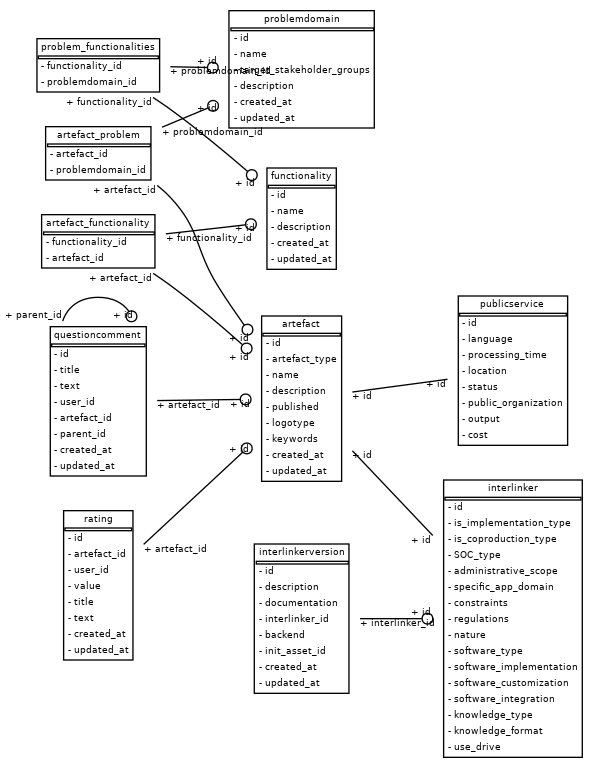
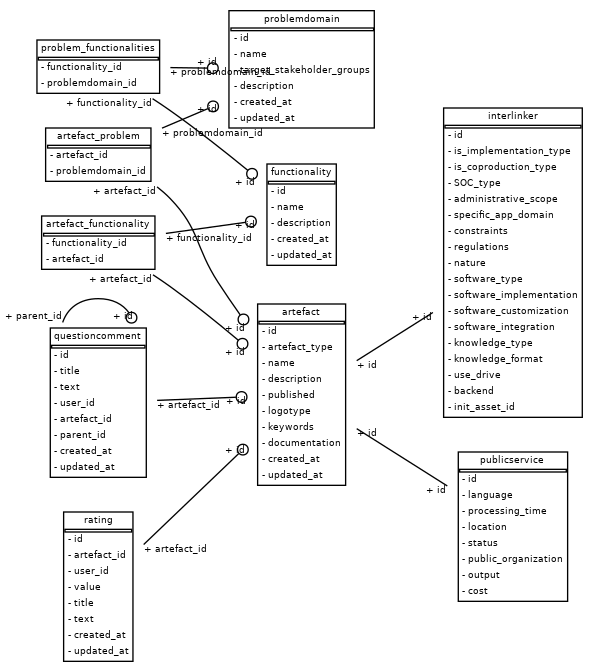
Model simplified

diff --git a/catalogue/app/interlinkers/crud.py b/catalogue/app/interlinkers/crud.py
@@ -1,18 +1,16 @@
-import uuid
-from typing import Any, Dict, Optional, Union
+from typing import Optional
 
 from sqlalchemy.orm import Session
 
-from app.models import Interlinker, InterlinkerVersion
-from app.schemas import InterlinkerCreate, InterlinkerPatch, InterlinkerVersionCreate
+from app.models import Interlinker
+from app.schemas import InterlinkerCreate, InterlinkerPatch
 from app.general.utils.CRUDBase import CRUDBase
-from app import crud
 
 class CRUDInterlinker(CRUDBase[Interlinker, InterlinkerCreate, InterlinkerPatch]):
     def get_by_name(self, db: Session, name: str) -> Optional[Interlinker]:
         return db.query(Interlinker).filter(Interlinker.name == name).first()
 
-    def create(self, db: Session, *, interlinker: InterlinkerCreate, interlinkerversion: InterlinkerVersionCreate) -> Interlinker:
+    def create(self, db: Session, *, interlinker: InterlinkerCreate) -> Interlinker:
         db_obj = Interlinker(
             # Artefact
             name=interlinker.name,
@@ -20,6 +18,7 @@ class CRUDInterlinker(CRUDBase[Interlinker, InterlinkerCreate, InterlinkerPatch]
             logotype=interlinker.logotype,
             published=interlinker.published,
             keywords=interlinker.keywords,
+            documentation=interlinker.documentation,
             # Interlinker specific
             SOC_type=interlinker.SOC_type,
             nature=interlinker.nature,
@@ -33,12 +32,11 @@ class CRUDInterlinker(CRUDBase[Interlinker, InterlinkerCreate, InterlinkerPatch]
             software_integration=interlinker.software_integration,
             knowledge_type=interlinker.knowledge_type,
             knowledge_format=interlinker.knowledge_format,
+            # Version
+            backend=interlinker.backend,
+            init_asset_id=interlinker.init_asset_id,
         )
         db.add(db_obj)
-        db.commit()
-
-        db_vers = crud.interlinkerversion.create(db=db, interlinkerversion=interlinkerversion, interlinker_id=db_obj.id)
-        db.add(db_vers)
         db.commit()
         db.refresh(db_obj)
         return db_obj

diff --git a/catalogue/app/initial_data.py b/catalogue/app/initial_data.py
@@ -17,7 +17,7 @@ def main() -> None:
         for interlinker in interlinkers_data:
             name = interlinker["name"]
             backend = interlinker["backend"]
-
+            init_asset_id = None
             if interlinker["type"] == "KN":
                 path = interlinker["path"]
 
@@ -29,20 +29,8 @@ def main() -> None:
                 print(f"RESPUESTA PARA {backend}")
                 files_data = response.json()
                 print(files_data)
-                interlinkerversiondata = schemas.InterlinkerVersionCreate(**{
-                    "init_asset_id": files_data["_id"],
-                    "backend": backend,
-                    "description": "First version",
-                    "documentation": "<>string</>",
-                }
-                ),
-            else:
-                interlinkerversiondata = schemas.InterlinkerVersionCreate(**{
-                    "backend": backend,
-                    "description": "First version",
-                    "documentation": "<>string</>",
-                }
-                )
+                init_asset_id = files_data["_id"]
+            
             # I don´t know why sometimes a tuple that contains InterlinkerVersionCreate instance is created
             crud.interlinker.create(
                 db=db,
@@ -52,11 +40,14 @@ def main() -> None:
                     "logotype": "string",
                     "published": True,
                     "keywords": [],
+                    "documentation": "<>string</>",
                     "SOC_type": "A11",
                     "nature": "SW" if interlinker["type"] == "SW" else "KN",
-                    "problemdomains": []}
+                    "problemdomains": [],
+                    "backend": backend,
+                    "init_asset_id": init_asset_id
+                    }
                 ),
-                interlinkerversion=interlinkerversiondata[0] if isinstance(interlinkerversiondata, tuple) else interlinkerversiondata
             )
     
     db.close()

diff --git a/catalogue/app/status.py b/catalogue/app/status.py
@@ -1,0 +1,37 @@
+
+from app.general.db.session import SessionLocal
+from app import crud
+import requests
+
+status_dict = {}
+
+def set_interlinkers_status() -> None:
+    with SessionLocal() as db:
+        for interlinker in crud.interlinker.get_multi(db=db):
+            done = []
+            try:
+                id = interlinker.backend
+                if id not in done:
+                    last_status = status_dict[id] if id in status_dict else None
+                    
+                    current_status = "off"
+                    try:
+                        data = requests.get(f"http://{interlinker.backend}/healthcheck/").json()
+                        current_status = "on" if data else "off"
+                    except Exception as e:
+                        print(str(e))
+                        pass
+                    print(f"{interlinker.name} - {current_status}")
+                    if (last_status == "off" and current_status == "on") or (last_status == "on" and current_status == "off"):
+                        current_status = "dangling"
+                    
+                    status_dict[id] = {
+                        "name": interlinker.name,
+                        "status": current_status
+                    }
+                    done.append(id)
+            except Exception as e:
+                print(str(e))
+
+def get_interlinker_status(interlinker_id):
+    return status_dict[interlinker_id]

diff --git a/catalogue/app/main.py b/catalogue/app/main.py
@@ -42,13 +42,27 @@ def healthcheck():
 #app.add_middleware(SessionMiddleware, secret_key="some-random-string")
 #app.add_middleware(AuthMiddleware)
 
-# from app.initial_data import create_diagram
-# print("CREATING DIAGRAM")
-# create_diagram()
-
 ###################
 # Staticfiles
 ###################
 
 from fastapi.staticfiles import StaticFiles
 app.mount("/static", StaticFiles(directory="static"), name="static")
+
+###################
+# Tasks
+###################
+
+from fastapi_utils.tasks import repeat_every
+from app.status import set_interlinkers_status, status_dict
+
+@app.on_event("startup")
+@repeat_every(seconds=5)
+def task_set_interlinkers_status() -> None:
+    print("Setting interlinkers status")
+    set_interlinkers_status()
+            
+
+@app.get("/interlinkers_status/")
+def status():
+    return status_dict

diff --git a/catalogue/app/interlinkers/models.py b/catalogue/app/interlinkers/models.py
@@ -48,9 +48,12 @@ class Interlinker(Artefact):
     # IM or SP
     knowledge_format = Column(String, nullable=True)
     use_drive = Column(Boolean, default=True)
-
-    versions = relationship("InterlinkerVersion", back_populates="interlinker")
     
+    # version
+    backend = Column(String)
+    # If knowledge interlinker, needs to have init template
+    init_asset_id = Column(String, nullable=True)
+
     __mapper_args__ = {
         "polymorphic_identity": "interlinker",
     }
@@ -61,7 +64,3 @@ class Interlinker(Artefact):
     @cached_property
     def is_knowledge(self):
         return self.nature == "KN"
-
-    @property
-    def last_version(self):
-        return self.versions[0]

diff --git a/catalogue/app/interlinkers/schemas.py b/catalogue/app/interlinkers/schemas.py
@@ -16,7 +16,6 @@ from app.artefacts.schemas import (
     ArtefactORM,
     ArtefactOut,
 )
-from app.interlinkerversions.schemas import InterlinkerVersionOut
 # Interlinker
 
 TYPES = [("A11", "easfas"), ("A12", "ADFSSADF")]
@@ -61,6 +60,8 @@ class InterlinkerBase(ArtefactBase):
     knowledge_type: Optional[kn_types]
     knowledge_format: Optional[str]
 
+    backend: str
+    init_asset_id: Optional[str]
 
 class InterlinkerCreate(ArtefactCreate, InterlinkerBase):
     pass
@@ -80,4 +81,4 @@ class InterlinkerORM(ArtefactORM, InterlinkerBase):
 
 
 class InterlinkerOut(ArtefactOut, InterlinkerORM):
-    last_version: Optional[InterlinkerVersionOut]
+    pass

diff --git a/catalogue/app/schemas.py b/catalogue/app/schemas.py
@@ -3,7 +3,6 @@ from typing import List, Optional
 from app.interlinkers.schemas import *
 from app.publicservices.schemas import *
 from app.functionalities.schemas import *
-from app.interlinkerversions.schemas import *
 from app.problemdomains.schemas import *
 from app.ratings.schemas import *
 from app.questioncomments.schemas import *
@@ -18,10 +17,6 @@ class PublicServiceOutFull(ArtefactOutFull, PublicServiceOut):
 
 
 class InterlinkerOutFull(ArtefactOutFull, InterlinkerOut):
-    pass
-
-
-class InterlinkerVersionOutFull(InterlinkerVersionOut):
     pass
 
 

diff --git a/catalogue/app/publicservices/crud.py b/catalogue/app/publicservices/crud.py
@@ -21,6 +21,7 @@ class CRUDPublicService(CRUDBase[PublicService, PublicServiceCreate, PublicServi
             logotype=publicservice.logotype,
             published=publicservice.published,
             keywords=publicservice.keywords,
+            documentation=publicservice.documentation,
             # Public Service specific
             language=publicservice.language,
             processing_time=publicservice.processing_time,

diff --git a/catalogue/app/crud.py b/catalogue/app/crud.py
@@ -1,5 +1,4 @@
 from app.functionalities.crud import exportCrud as functionality
-from app.interlinkerversions.crud import exportCrud as interlinkerversion
 from app.interlinkers.crud import exportCrud as interlinker
 from app.problemdomains.crud import exportCrud as problemdomain
 from app.publicservices.crud import exportCrud as publicservice

diff --git a/catalogue/app/artefacts/models.py b/catalogue/app/artefacts/models.py
@@ -29,6 +29,7 @@ class Artefact(BaseModel):
     published = Column(Boolean, default=False)
     logotype = Column(String)
     keywords = Column(ARRAY(String))
+    documentation = Column(String, nullable=True)
     
     problemdomains = relationship(
         "ProblemDomain",

diff --git a/catalogue/app/artefacts/schemas.py b/catalogue/app/artefacts/schemas.py
@@ -14,7 +14,7 @@ class ArtefactBase(PydanticBaseModel):
     logotype: str
     published: bool
     keywords: List[str]
-
+    documentation: Optional[str]
 
 class ArtefactCreate(ArtefactBase):
     problemdomains: Optional[List[uuid.UUID]]

diff --git a/catalogue/app/models.py b/catalogue/app/models.py
@@ -1,5 +1,4 @@
 from app.interlinkers.models import *
-from app.interlinkerversions.models import *
 from app.publicservices.models import *
 from app.ratings.models import *
 from app.questioncomments.models import *
